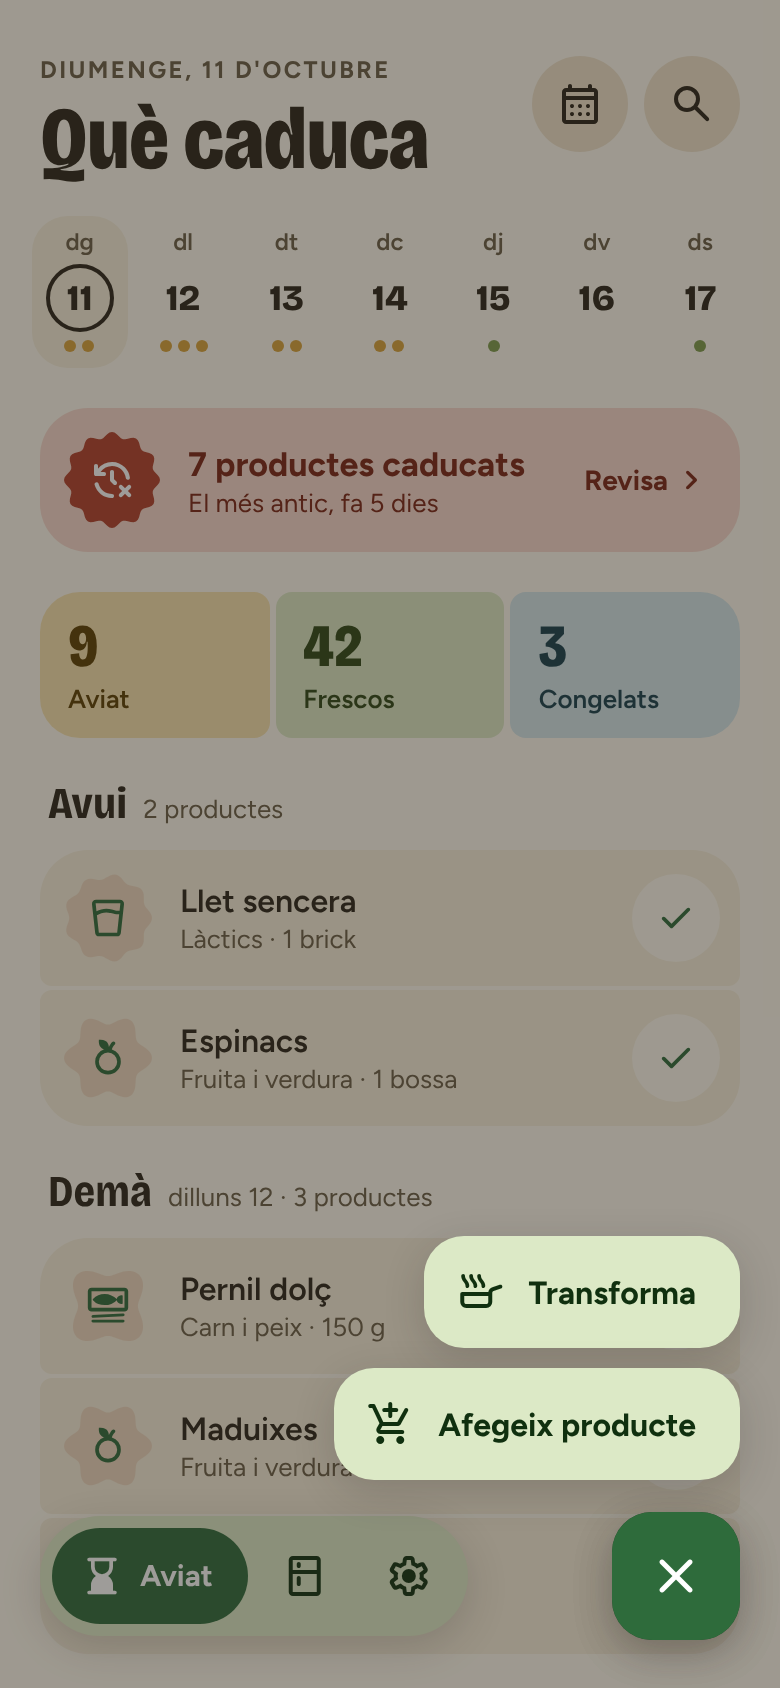
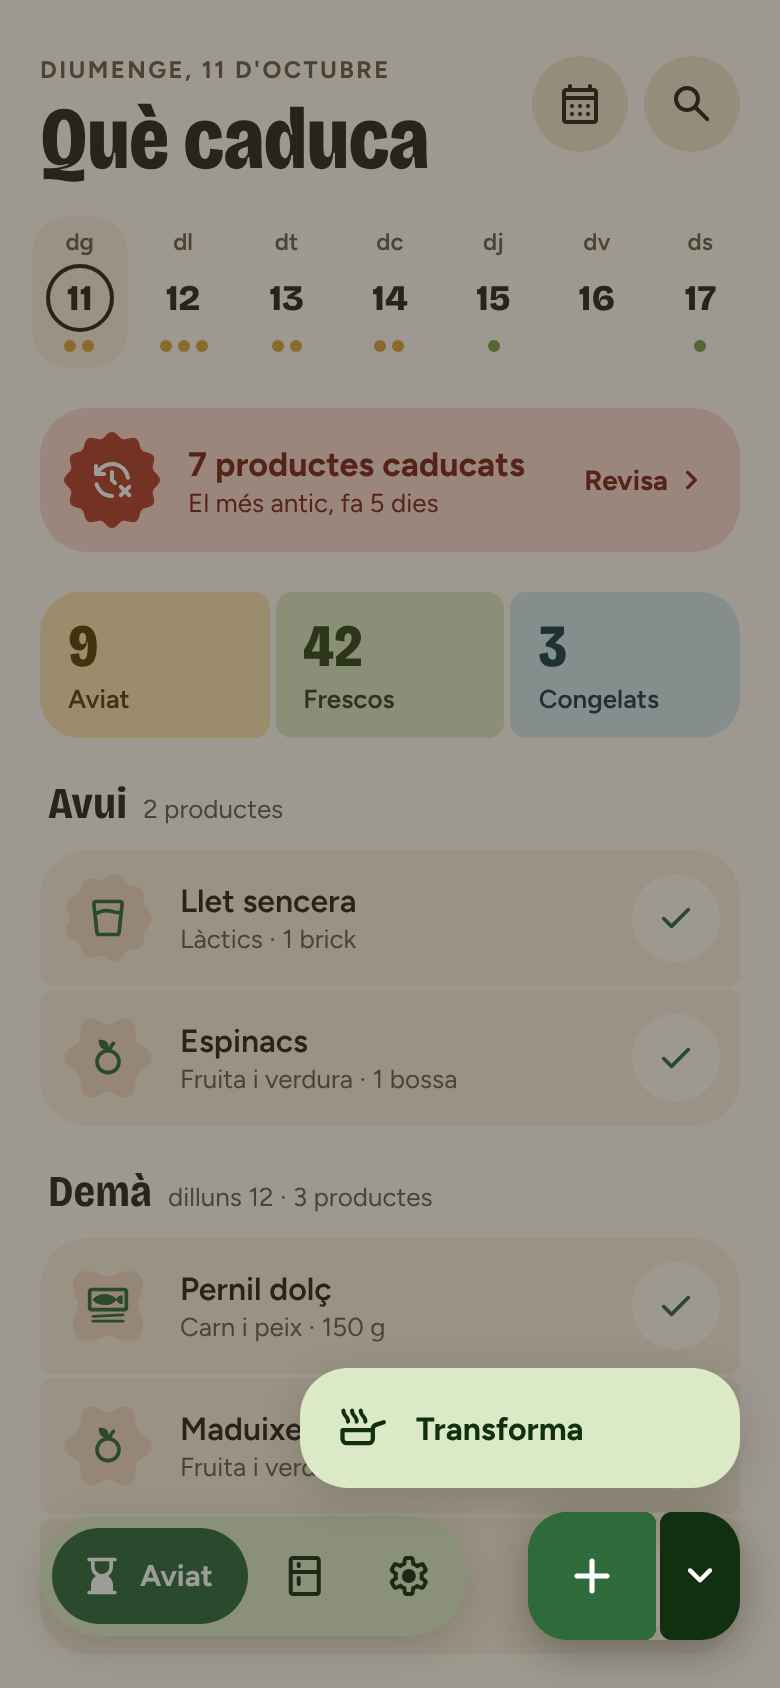
Replace the long-press entry with a split + button in the Transforma docs
Claude-Session: https://claude.ai/code/session_01BWaVcux3ef173uoj1y1LBH

Changed region(s): [[0.3692, 0.8009, 0.9538, 0.9858], [0.5231, 0.7085, 0.9538, 0.8009]]

diff --git a/docs/02-transforma/spec.md b/docs/02-transforma/spec.md
@@ -7,7 +7,7 @@ Un o més ingredients del rebost es converteixen en **una o més elaboracions no
 
 ## Punts d'entrada
 1. **Barra de selecció** (Caducats, Aviat, Frescos, Congelats, Categoria): en seleccionar productes, la barra inferior mostra **Consumit · Congela · Transforma** (grup de botons connectat, 68 dp, icona sobre el text; Transforma és el principal, `primary`). Es pot seleccionar d'unes seccions i d'altres, i diverses unitats d'un mateix producte. Captura `TransformaSeleccio`.
-2. **Pulsació llarga al «+» de l'Inici**: menú amb **Transforma** i **Afegeix producte** (píndoles `primary-container`, el «+» passa a «×», scrim 45 %). El toc normal al «+» continua obrint «Afegeix producte». Captura `EntradaMenu`. *(Gest ocult: no és l'entrada principal.)* **Obre Transforma en accés lliure** (sense dades inicials; vegeu «Accés lliure»).
+2. **Botó dividit «+ ⌄» de la barra inferior** (a totes les pantalles que tenen el «+»): el botó d'acció és ara un *split button* de M3 Expressive. Part principal **«+»** (64×64, radis 20/6, igual que abans: obre «Afegeix producte») i part secundària **«⌄»** (40×64, radis 6/20, separades 2 dp, mateix color) que obre un **menú de més accions** sobre el botó (scrim 45 %, la fletxa passa de ⌃ a ⌄ i la part secundària s'enfosqueix). De moment només conté **Transforma** (píndola `primary-container`, 60 dp, icona `skillet`, alineada a la dreta), però el menú està pensat per **créixer** (escàner, afegir en tanda…). Cap gest ocult. Captura `EntradaMenu`. Ha de ser accessible: dos botons independents, el secundari amb `aria-haspopup=menu`/`expanded`, etiqueta «Més accions».
 3. **Full d'Accions d'un producte**: fila «Transforma amb aquest» (`primary-container`) entre «Mou a una altra categoria» i «Esborra». Obre Transforma amb aquest producte ja afegit com a ingredient (per defecte **1 unitat**; si en té més, el selector `− 1 de N +` permet canviar-ho). Captura `EntradaAccions`.
 
 ## Pantalla «Transforma» (ruta a pantalla completa, no diàleg)
@@ -35,7 +35,7 @@ Nota al peu: «Els ingredients desapareixen del rebost en desar.»
 Pantalla a pantalla completa (no diàleg): cerca «Cerca al rebost», xips d'estat (Tots · Aviat · Fresc · **Congelat**) i de categoria (desplaçables), i llista de productes amb casella, meta (categoria · unitats/pes) i **pastilla d'estat** (Aviat/Fresc/Congelat). **Inclou ítems congelats.** Es poden marcar productes ja afegits (apareixen seleccionats). Botó inferior ample «Afegeix N ingredients». Els **caducats** no es llisten aquí (vegeu «Obert» 2).
 
 ## Accés lliure (`TransformaBuit`)
-Entrada des de la pulsació llarga al «+» (o qualsevol ruta sense ingredients prèvia). La pantalla s'obre **sense dades**: cap ingredient, un únic resultat buit amb el camp Nom autoenfocat.
+Entrada des del menú del botó dividit «⌄» (o qualsevol ruta sense ingredients prèvia). La pantalla s'obre **sense dades**: cap ingredient, un únic resultat buit amb el camp Nom autoenfocat.
 - **Ingredients opcionals** (mínim 0). La secció mostra l'estat buit «Cap ingredient. Afegeix-ne si en vols gastar del rebost» amb la fila «Afegeix ingredient» (la mateixa pantalla d'ingredients). Serveix per registrar una elaboració que no ve de res que tinguis apuntat (un tupper de casa, un menjar que t'han portat).
 - Sense ingredients, la data de caducitat **no té valor per defecte**: **nom, categoria i data** són obligatoris (la categoria no s'agafa de cap ingredient; si hi ha historial del nom, se suggereix). **Desa** queda desactivat fins que hi són. Si s'hi afegeix un ingredient, es torna al comportament normal (data per defecte = la de l'ingredient que caduca primer).
 - Els resultats congelats continuen sense data de caducitat; per tant, si se'n congelen tots, la data deixa de ser obligatòria.
